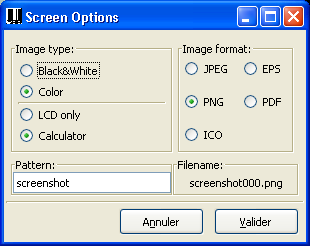
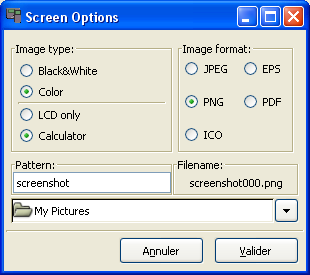
Updated manual.
git-svn-id: http://svn.tilp.info/repos/tiemu/tiemu/trunk@2183 4f589446-7ac1-0310-82c7-a055b08196ef

Changed region(s): [[0.029, 0.1707, 0.9871, 0.9959], [0.0, 0.0, 1.0, 0.1423], [0.7839, 0.3415, 0.9, 0.4553]]

diff --git a/help/chapter08.html b/help/chapter08.html
@@ -43,9 +43,9 @@ is slightly automated.<br>
 From the popup menu, select <span style="font-style: italic;">Screenshot
 &gt; Options</span>:<br>
 <br>
-<div style="text-align: center;"><a href="screenshot.png"><img alt=""
- src="screenshot.png"
- style="border: 0px solid ; width: 310px; height: 246px;"></a><br>
+<div style="text-align: center;"><span
+ style="text-decoration: underline;"><img alt="" src="screenshot.png"
+ style="width: 310px; height: 275px;"></span><br>
 </div>
 <br>
 <br>
@@ -55,10 +55,13 @@ Format) on both
 platforms. Image can be saved as color or B&amp;W. You can choose to
 save the whole window or just the LCD area.<br>
 <br>
-Screenshots are saved in the working folder (C:\Program Files\TiEmu).
+Unless changed with the drop-down button menu, screenshots are saved in
+the screenshot folder (C:\Program Files\TiEmu\screenshots).
+<br>
 Filename is built by TiEmu with:<br>
 - a pattern : the base name,<br>
-- a counter which is incremented every time you trigger a snapshot,<br>
+- a counter which is incremented every time you trigger a snapshot (but
+saved if you save the whole configuration),<br>
 - an extension depending on the image format.<br>
 <h2>8.2 To use it</h2>
 From the popup menu, select <span style="font-style: italic;">Screenshot
